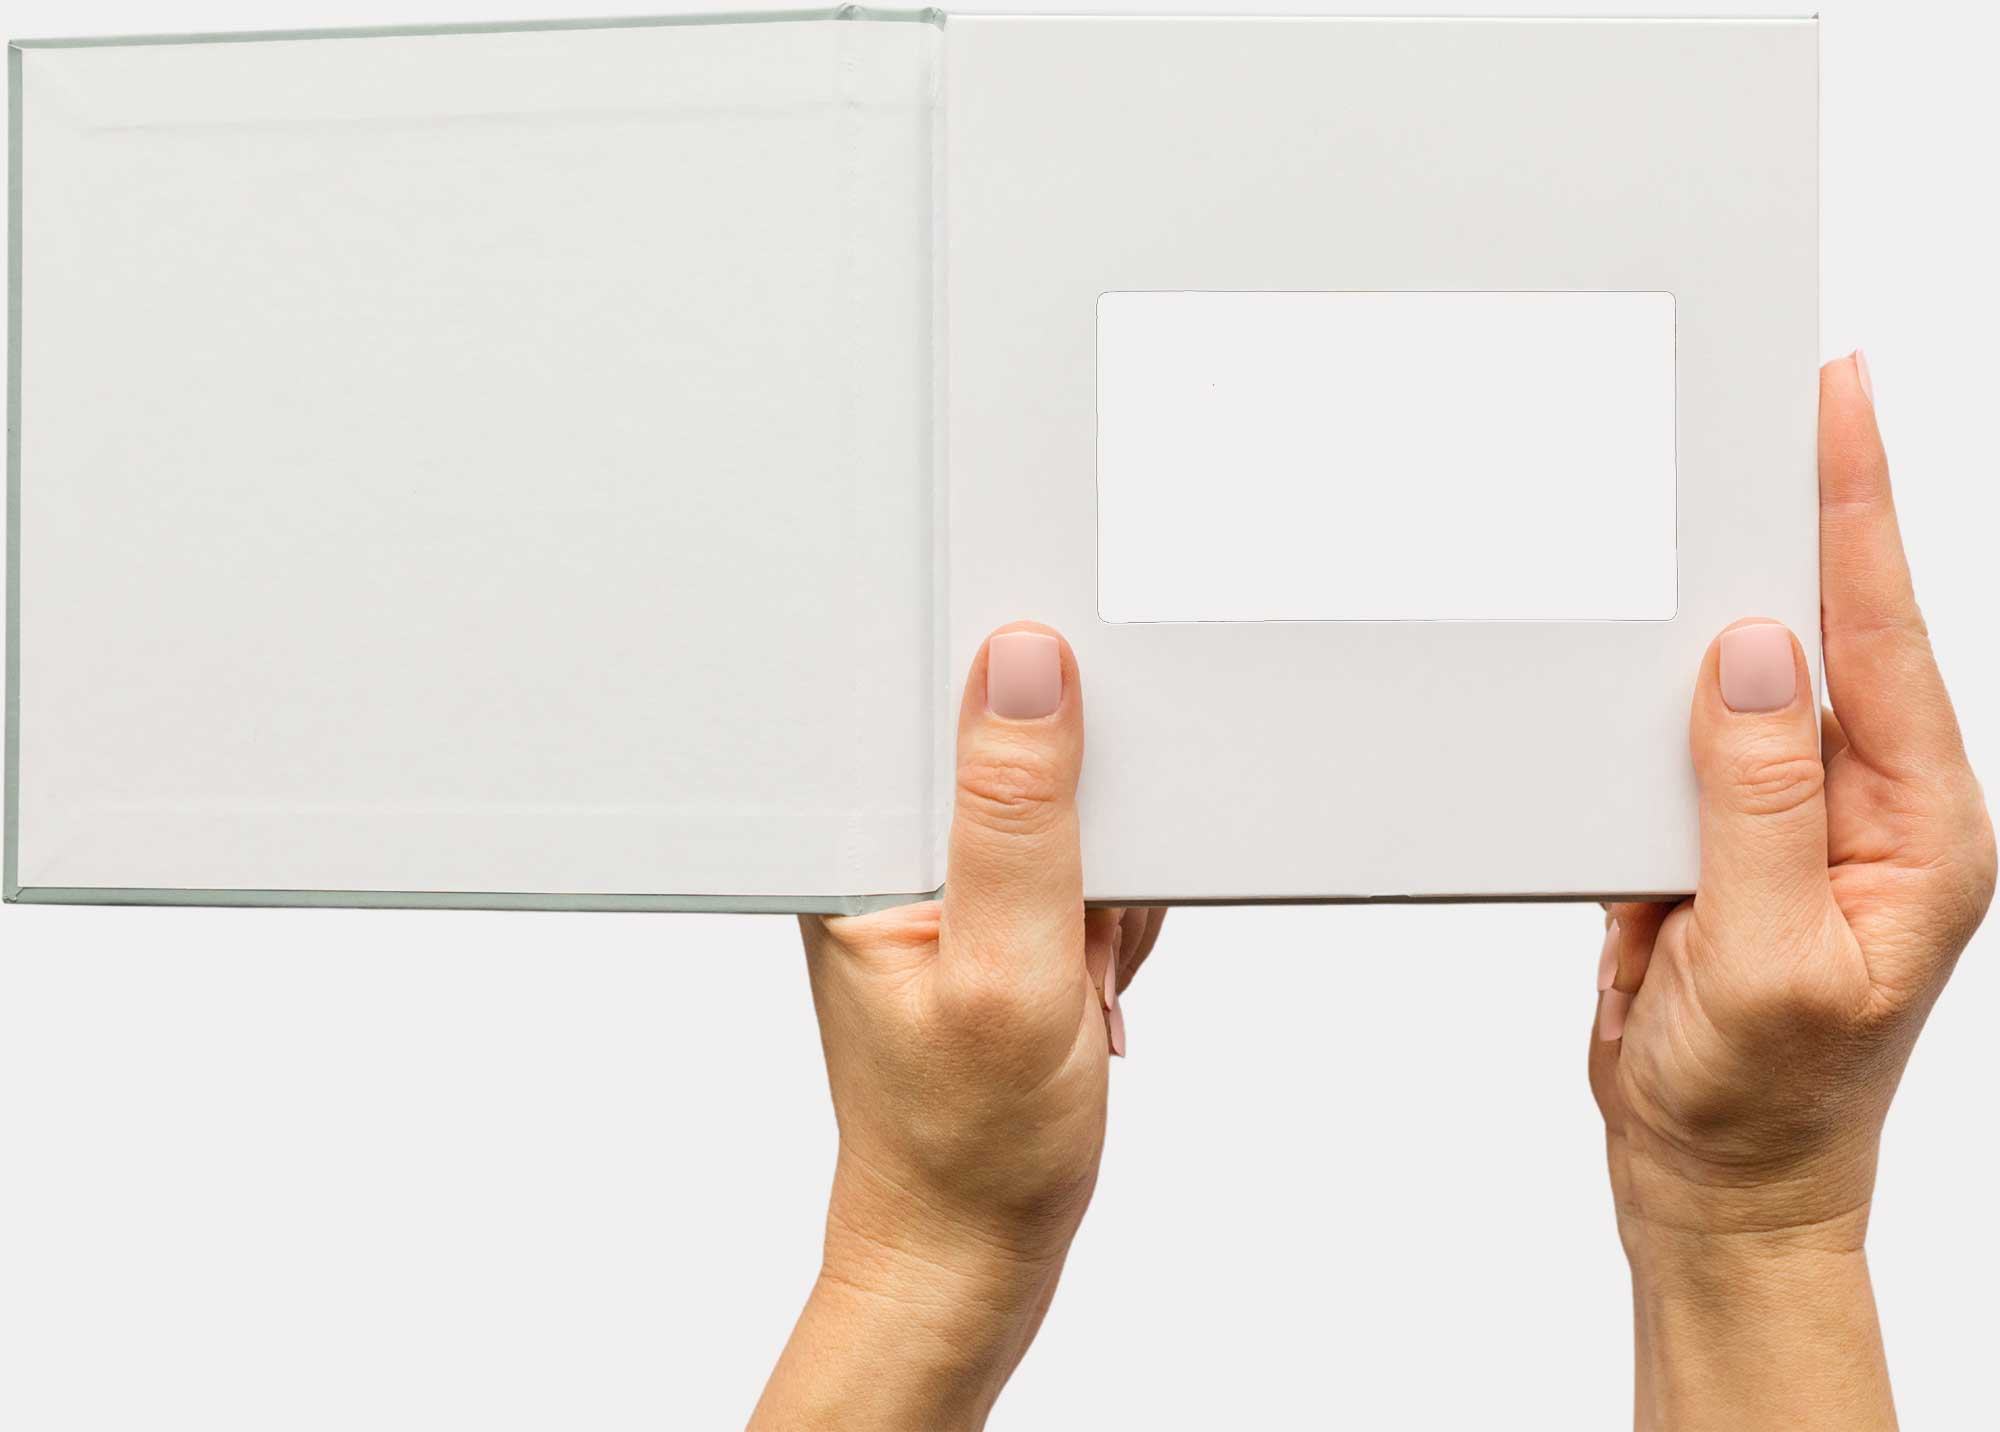
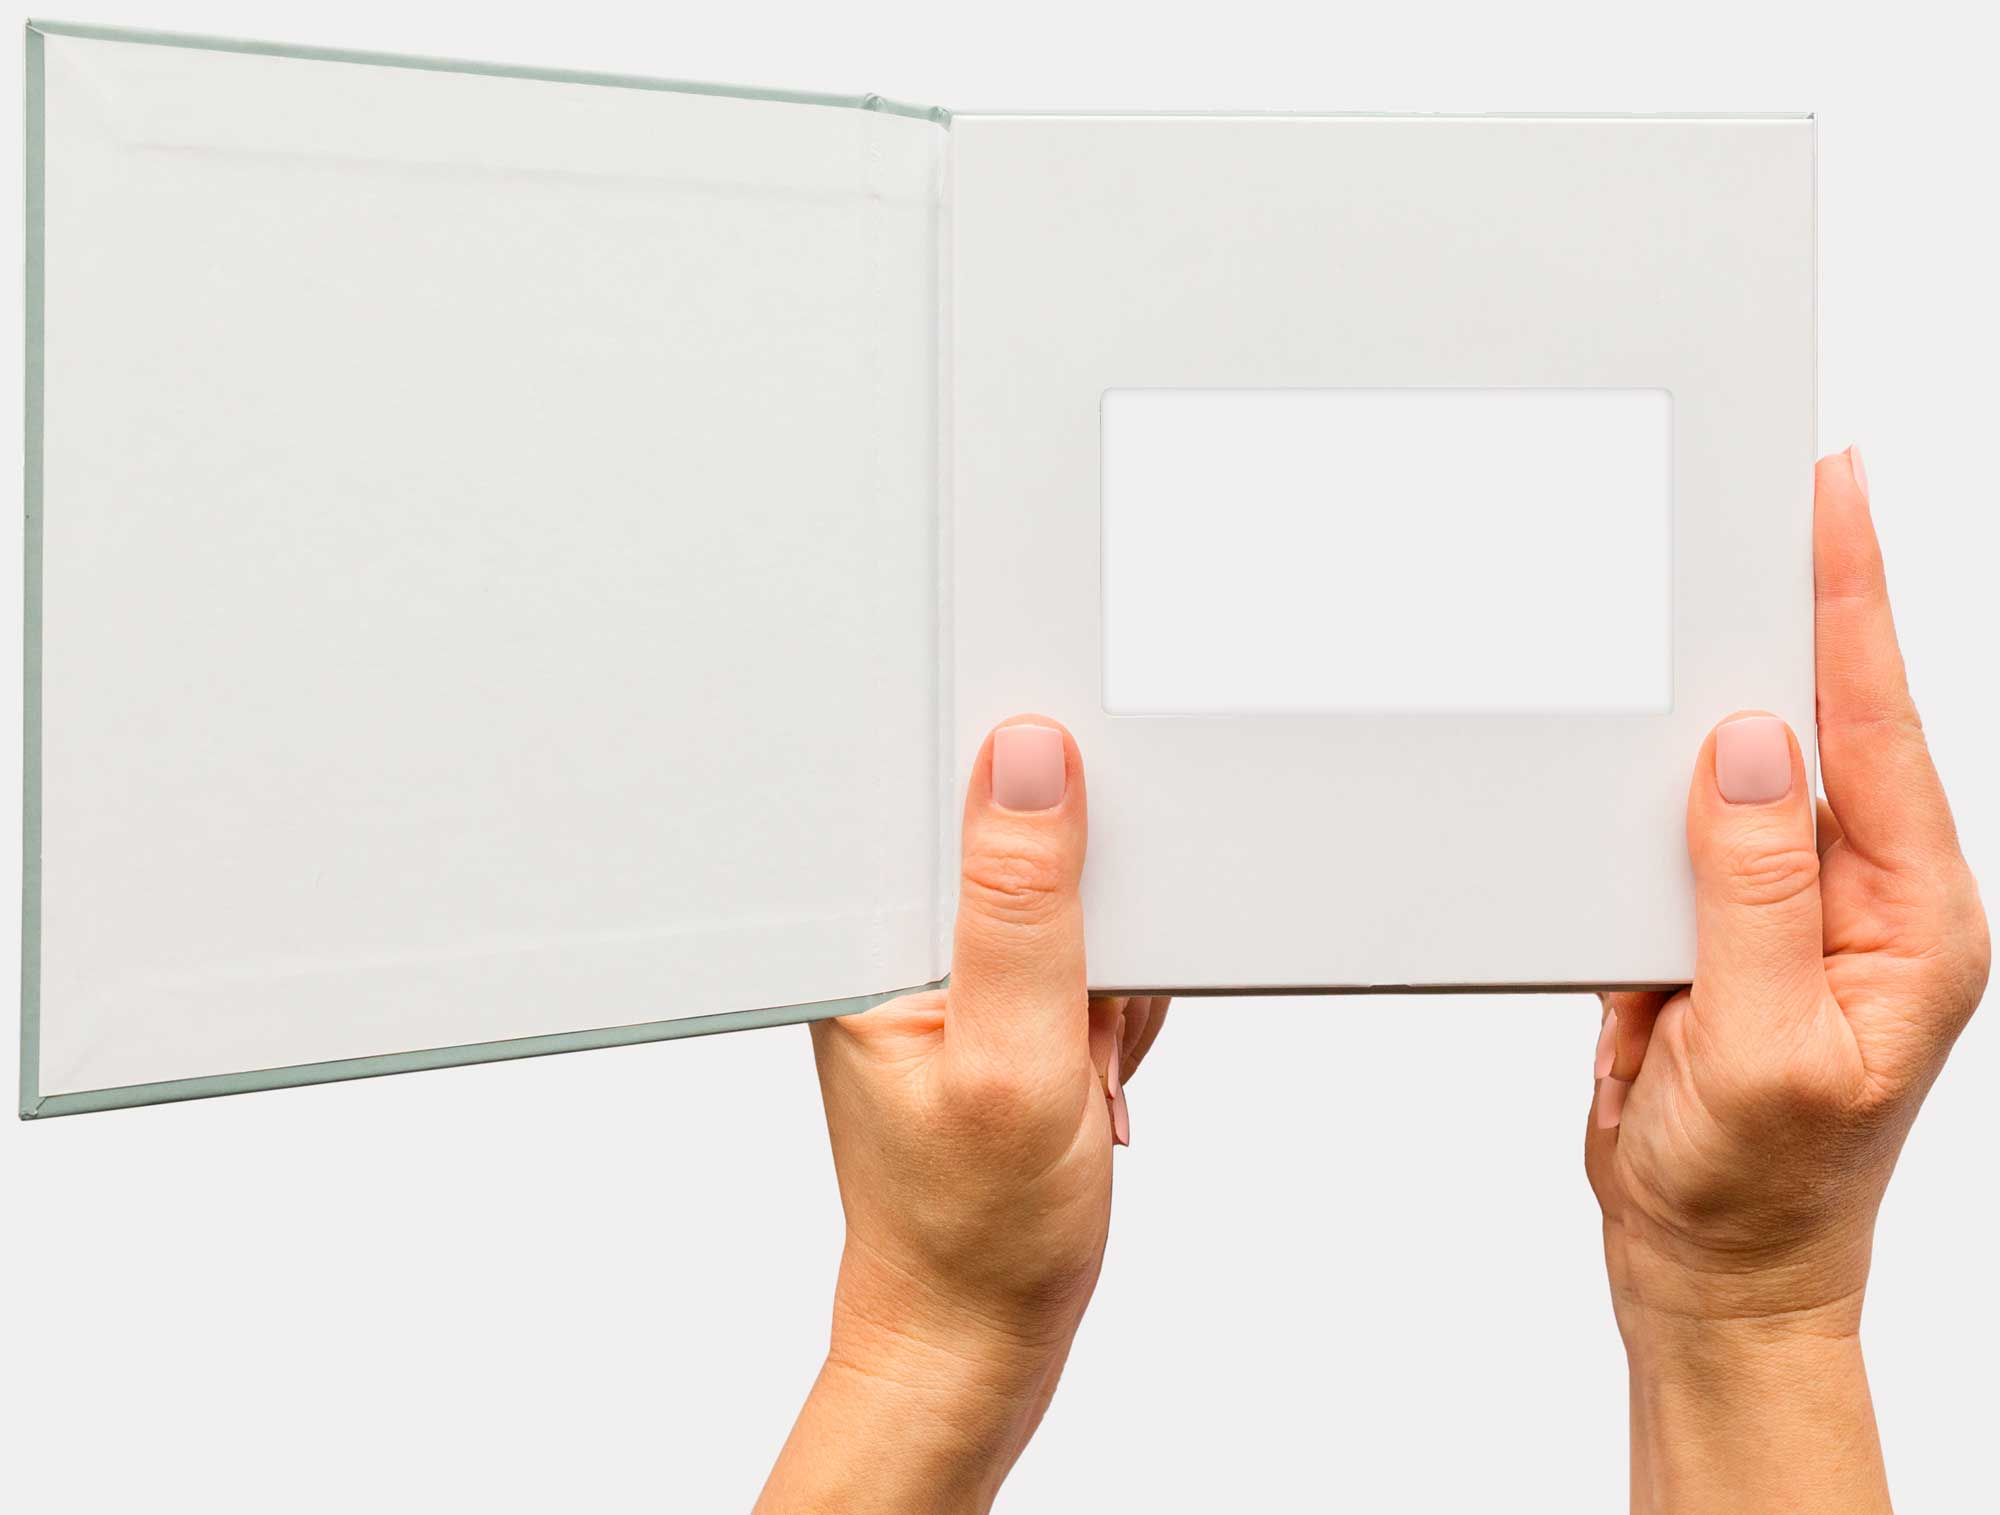
variation 2 - replace image, book is opening forward

Changed region(s): [[0.0, 0.0, 1.0, 1.0], [0.372, 0.0615, 0.496, 0.0922]]

diff --git a/src/static/css/index.css b/src/static/css/index.css
@@ -483,18 +483,22 @@ body.test-a .Hero--0 {
 
 body.test-a .GrandmaHandsSectionVideoMockup--content-inner {
   position: relative;
-  width: 71%;
-  margin-left: 1%;
+  width: 82%;
   left: auto;
+  margin-left: -8%;
 }
-@media (max-width: 650px) {
+@media (max-width: 1050px) {
   body.test-a .GrandmaHandsSectionVideoMockup--content-inner {
-    width: 100%;
+    width: 82%;
     margin-left: 0;
   }
 }
-
-
+@media (max-width: 650px) {
+  body.test-a .GrandmaHandsSectionVideoMockup--content-inner {
+    width: 150%;
+    margin-left: -50%;
+  }
+}
 
 .GrandmaHandsSectionVideoMockup--video-wrapper {
   position: absolute;
@@ -515,8 +519,9 @@ body.test-b .GrandmaHandsSectionVideoMockup--video-wrapper {
   background: transparent;
 }
 body.test-a .GrandmaHandsSectionVideoMockup--video-wrapper {
-  top: 20.3%;
-  left: 54.8%;
+  top: 25.3%;
+  left: 55.2%;
+  width: 28%;
 }
 
 .GrandmaHandsSectionVideoMockup--background {
